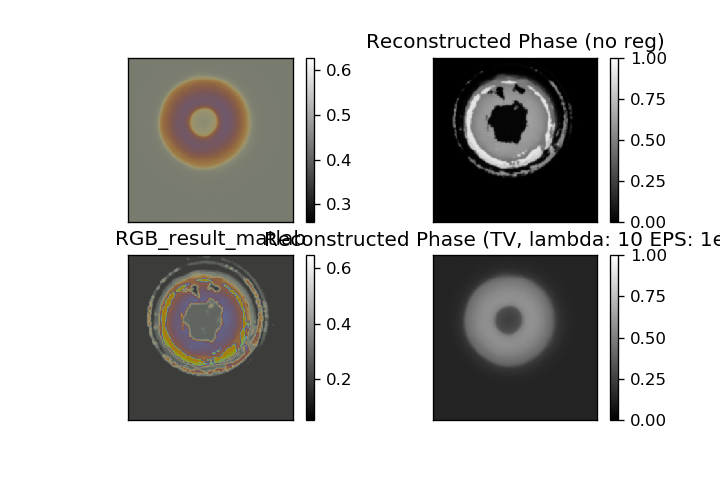
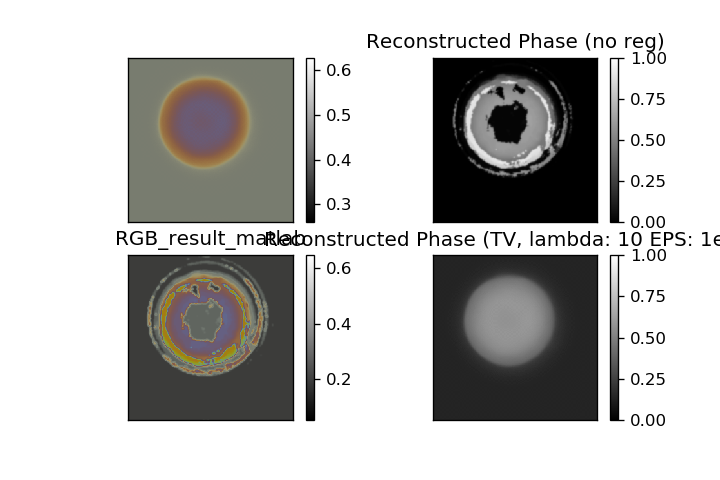
Updated the code to make it more stable, automatic background equalization

Changed region(s): [[0.6722, 0.625, 0.7333, 0.7188], [0.2444, 0.2188, 0.3056, 0.3125]]

diff --git a/MATLAB/Listings_1_Calibrate_RI_sample_v0.m b/MATLAB/Listings_1_Calibrate_RI_sample_v0.m
@@ -12,15 +12,15 @@ n_opdsteps = 100;
 opdfact = 2; % multiple of lambdas which is coverred by the fiber
 lambdaG = 562; % center wavelength
 opdmax= opdfact * lambdaG
-mygausskerneldim = 5;
+mygausskerneldim = 0;
 
 % add the library
 addpath('./src')
 
 % determine the path for the images
 imfolder = './data/EXP4/DARK_BG/'
-f_ref_img = 'IMG_20191202_165839_PS3.jpg';
-f_sample_im = 'IMG_20191202_171601_PS3.jpg'; % PS stands for DNG-> JPG using Potosop RAW converter
+f_ref_img = '2019-12-02 16.58.39-1.jpg';
+f_sample_im = '2019-12-02 17.15.55-1.jpg'; % PS stands for DNG-> JPG using Potosop RAW converter
 
 % load the imagefiles
 if(is_raw)
